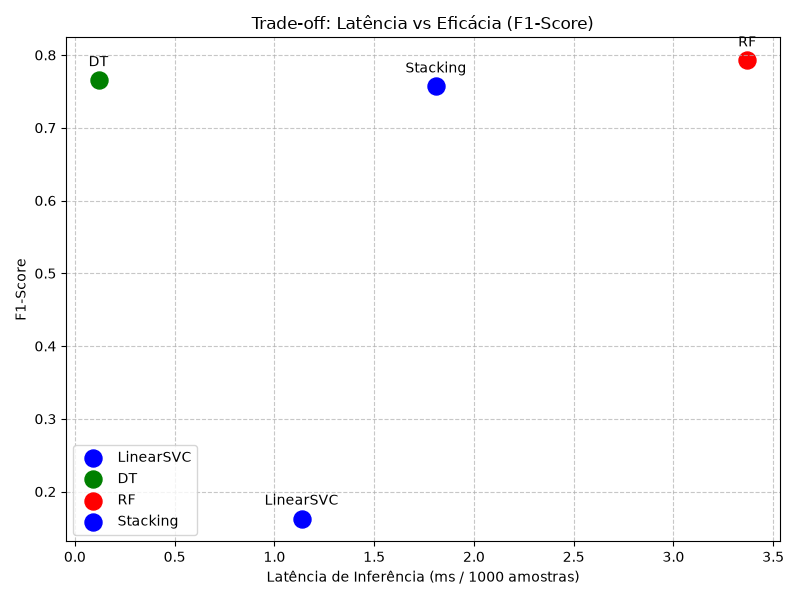
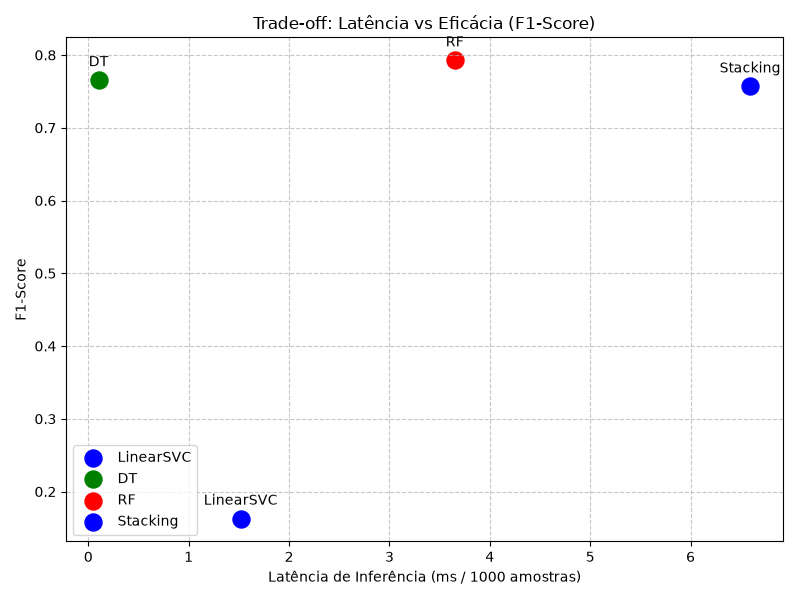
refactor: remover função SMOTE e dependência imbalanced-learn

diff --git a/src/preprocessing.py b/src/preprocessing.py
@@ -4,7 +4,6 @@ from sklearn.compose import ColumnTransformer
 from sklearn.preprocessing import StandardScaler, RobustScaler, OneHotEncoder
 from sklearn.impute import SimpleImputer
 from sklearn.feature_selection import VarianceThreshold
-from imblearn.over_sampling import SMOTE
 from sklearn.pipeline import Pipeline
 
 def get_preprocessor(numeric_features, categorical_features, scale_type='standard'):
@@ -36,26 +35,6 @@ def get_preprocessor(numeric_features, categorical_features, scale_type='standar
         ])
 
     return preprocessor
-
-def apply_smote(X_train, y_train, random_state=42):
-    """
-    Aplica o SMOTE aos dados de treino para balanceamento.
-    """
-    print(f"Aplicando SMOTE... (Shape antes: {X_train.shape})")
-    
-    min_samples = pd.Series(y_train).value_counts().min()
-    k_neighbors = 5
-    if min_samples <= 5:
-        k_neighbors = max(1, min_samples - 1)
-        
-    if k_neighbors < 1:
-        return X_train, y_train
-
-    smote = SMOTE(random_state=random_state, k_neighbors=k_neighbors)
-    X_res, y_res = smote.fit_resample(X_train, y_train)
-    
-    print(f"SMOTE Concluído. (Shape depois: {X_res.shape})")
-    return X_res, y_res
 
 def drop_irrelevant_features(df):
     """

diff --git a/main.py b/main.py
@@ -3,7 +3,7 @@ import joblib
 from dotenv import load_dotenv
 from sklearn.model_selection import train_test_split
 from src.data_loader import load_data, prepare_target
-from src.preprocessing import drop_irrelevant_features, get_preprocessor, apply_smote
+from src.preprocessing import drop_irrelevant_features, get_preprocessor
 from src.models import get_base_learners, get_stacking_classifier
 from src.evaluation import evaluate_models
 from sklearn.pipeline import Pipeline

diff --git a/README.md b/README.md
@@ -15,7 +15,7 @@ AIDS_alternativo/
 ├── specs/                      # Especificações e arquitetura do projeto
 ├── src/                        # Código-fonte principal da pipeline
 │   ├── data_loader.py          # Lógica de carregamento de dados e amostragem
-│   ├── preprocessing.py        # Limpeza, Scalers (Standard/Robust) e SMOTE
+│   ├── preprocessing.py        # Limpeza, Scalers (Standard/Robust) e seleção de atributos
 │   ├── models.py               # Algoritmos Base e Stacking Ensemble
 │   └── evaluation.py           # Cálculo de métricas e geração de gráficos (Matplotlib/Seaborn)
 ├── .env                        # Configurações dinâmicas para execução (toggles)
@@ -77,10 +77,9 @@ python main.py
 
 O script realizará automaticamente:
 1. Leitura e descarte inteligente de dados super-dimensionados e de variância nula.
-2. Treinamento de dados balanceados utilizando **SMOTE**.
-3. Construção e Treinamento do **Stacking Ensemble**.
-4. Testes e persistência (pasta `models/`).
-5. Geração e avaliação gráfica (pasta `results/`).
+2. Construção e Treinamento do **Stacking Ensemble**.
+3. Testes e persistência (pasta `models/`).
+4. Geração e avaliação gráfica (pasta `results/`).
 
 ## 📊 Gráficos de Resultados
 
